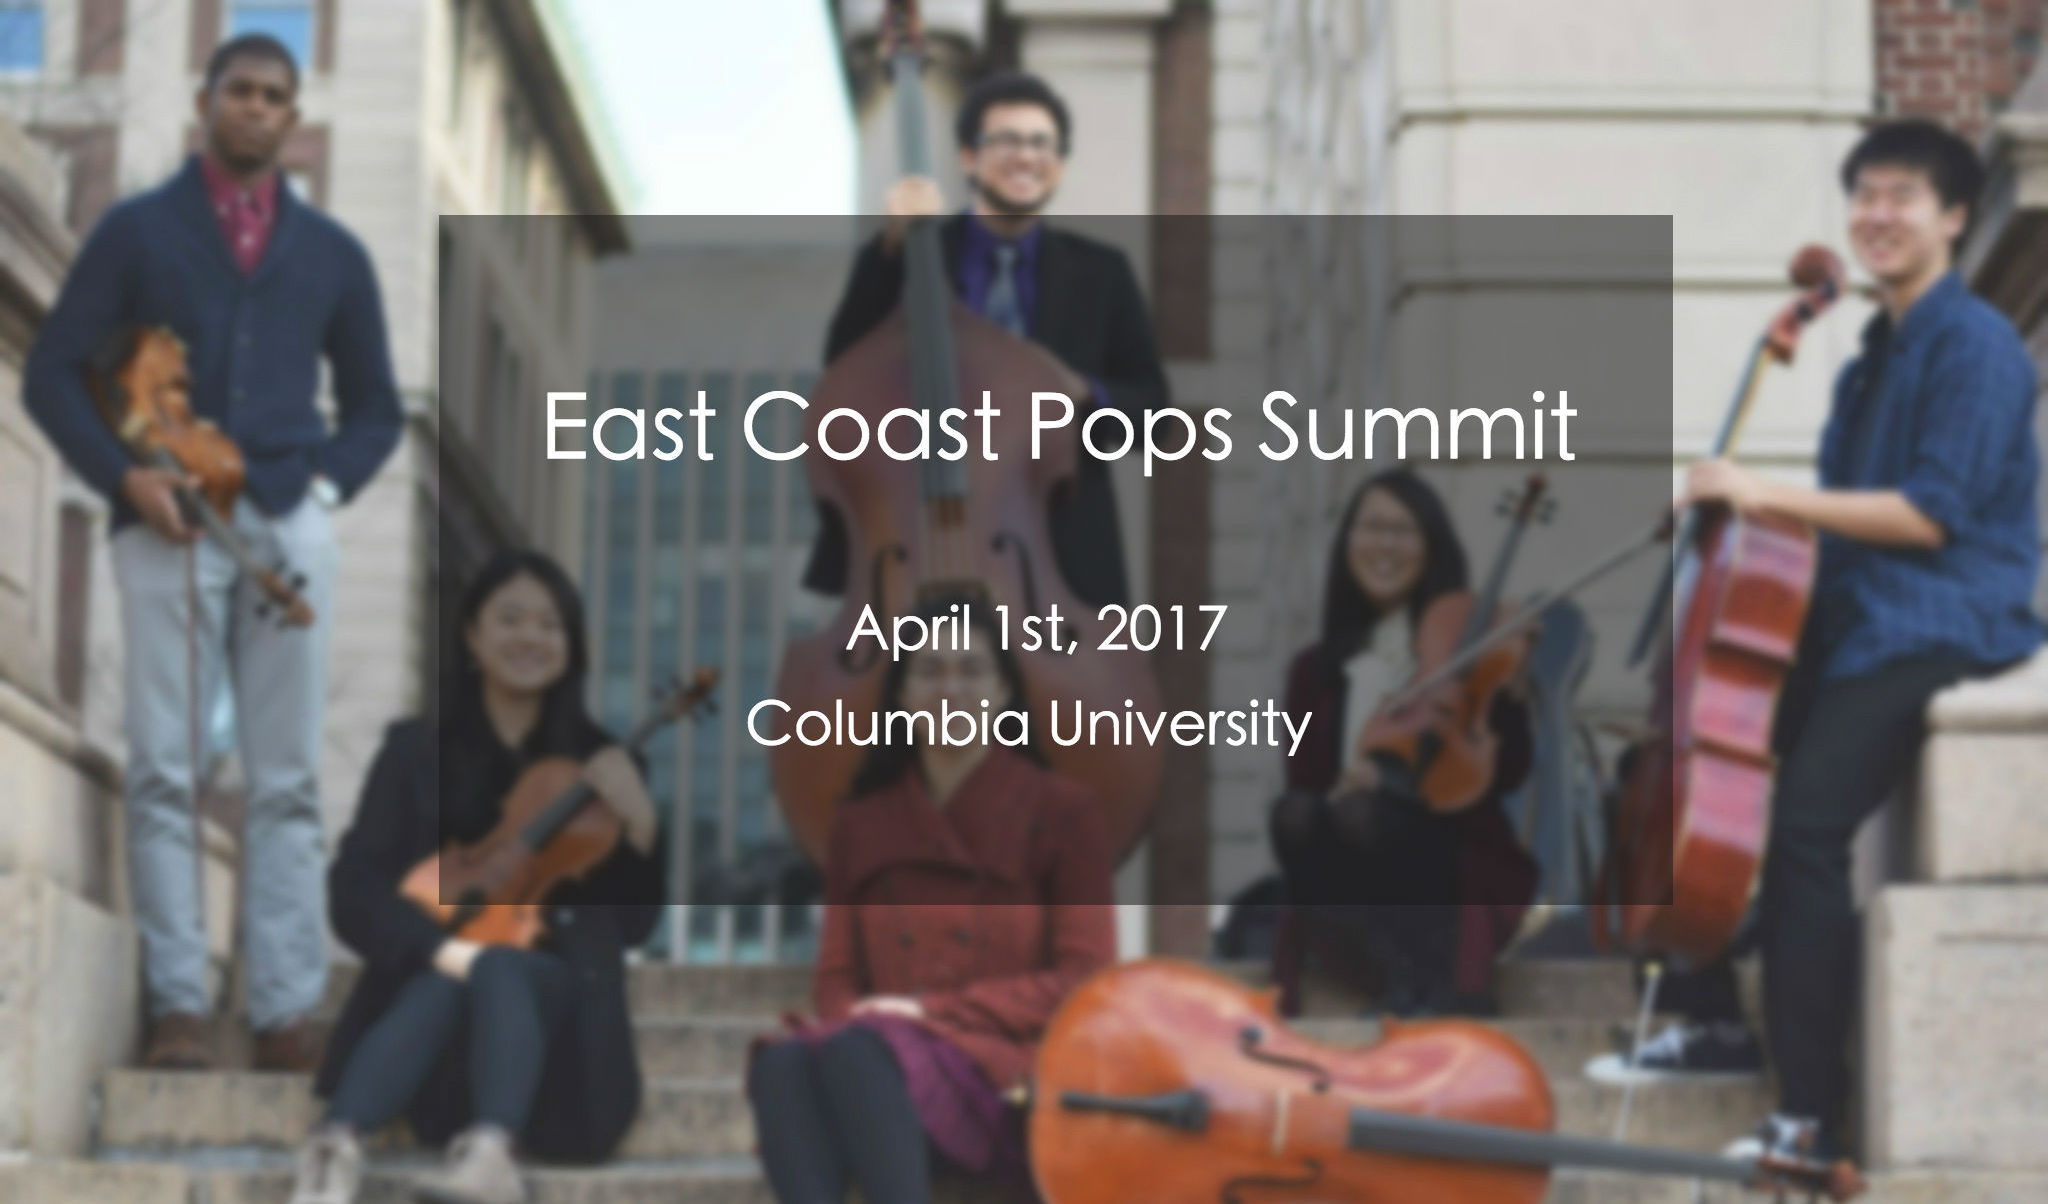
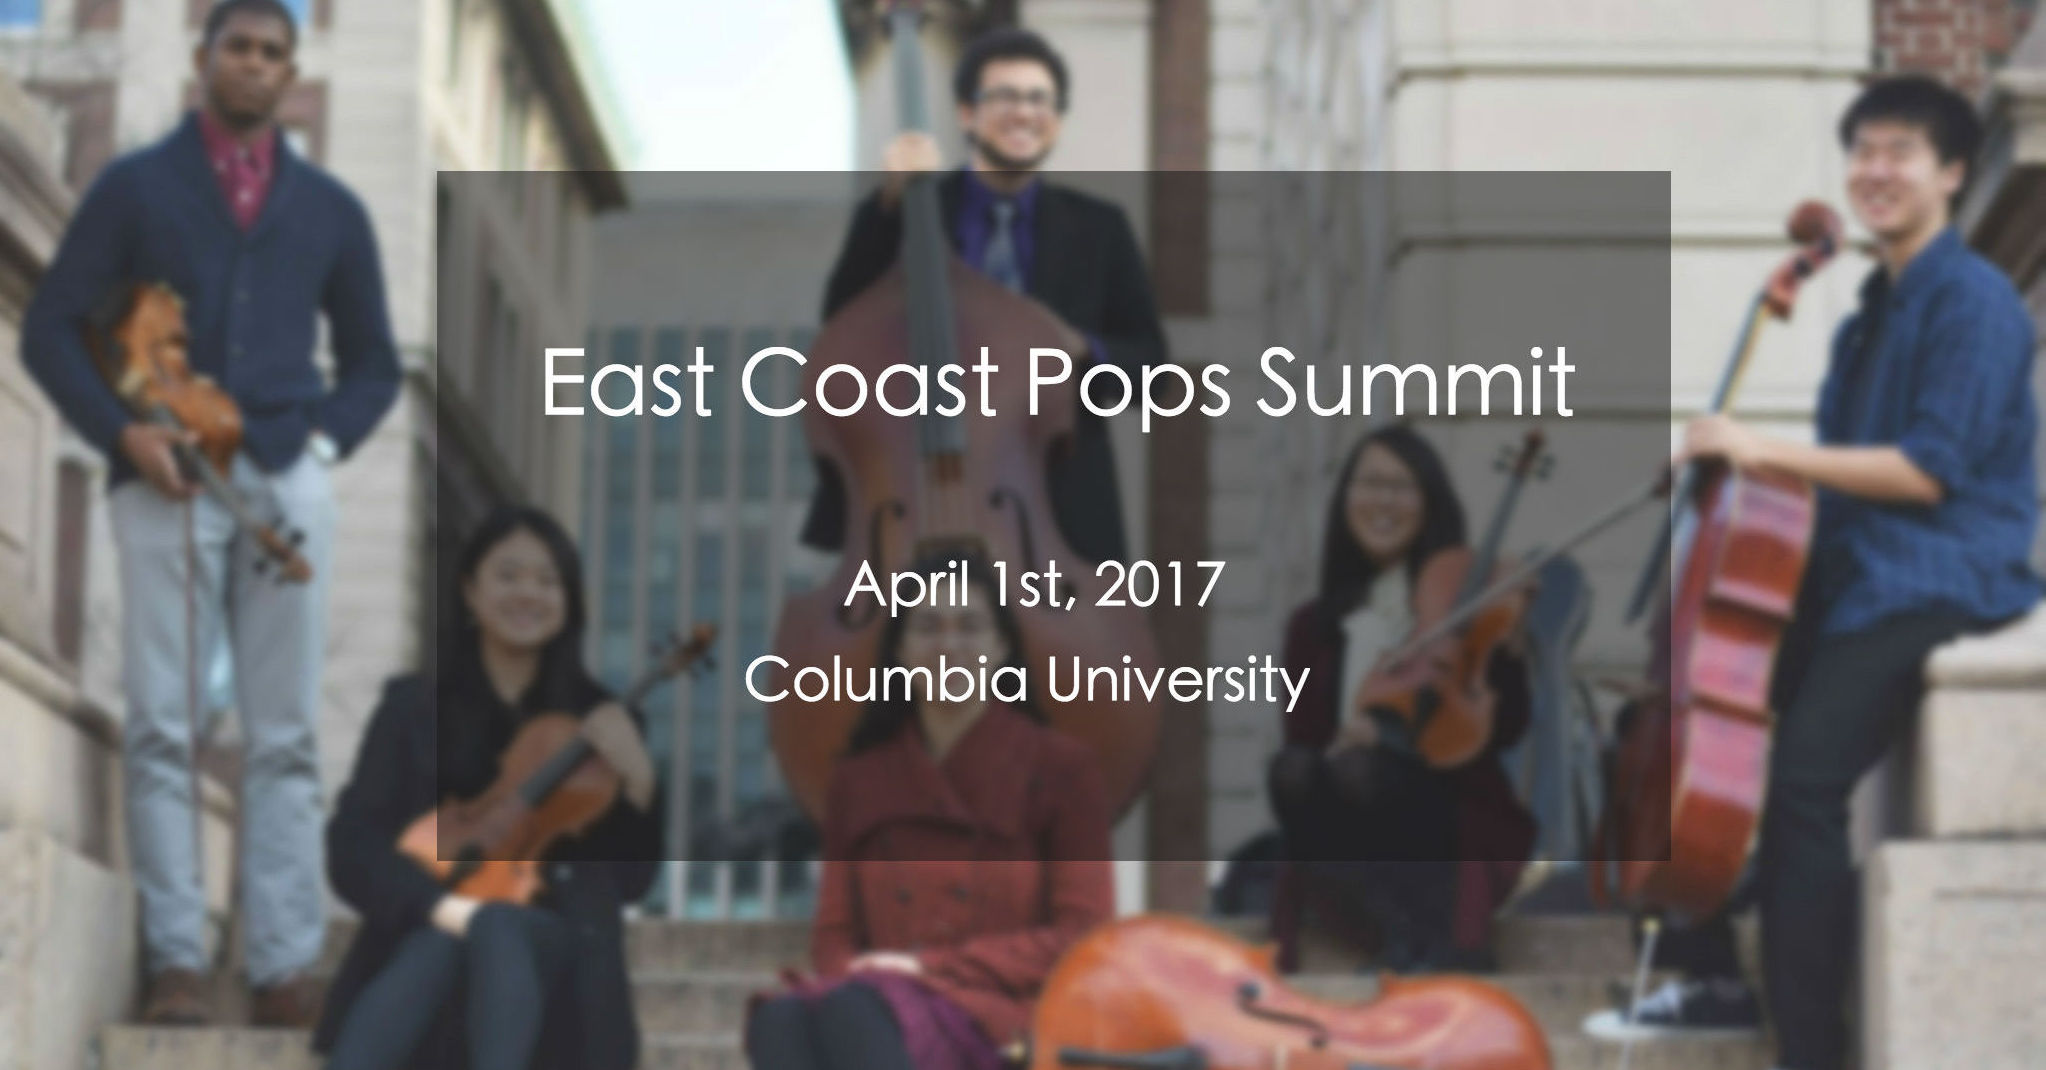
Fixes for mobile

diff --git a/index.html b/index.html
@@ -22,17 +22,18 @@
         </div>
       </div>
 
-      <div class="top-section">
+      <div class="row expanded">
+        <img class="cover-photo" src="img/pops_summit_cover2.jpg"></img>
       </div>
 
       <div class="section">
         <a name="about"></a>
         <div class="row">
-          <div class="small-8 small-centered columns">
+          <div class="small-12 medium-8 small-centered columns">
             <div class="section-title">About</div>
             <hr>
             <div class="description">
-              Join us for day-long celebration of instrumental pop music. On April 1st, 2017, musicians from pop groups all over the east coast will gather in New York to collaborate on chamber and orchestra covers of pop, video game, and film music.
+              Join us for a day-long celebration of instrumental pop music. On April 1st, 2017, musicians from pop groups all over the east coast will gather in New York to collaborate on chamber and orchestra covers of pop, video game, and film music.
             </div>
           </div>
         </div>
@@ -43,7 +44,9 @@
       <div class="section">
         <a name="participants"></a>
         <div class="row">
-          <div class="small-8 small-centered columns">
+<!--           <div class="small-8 small-centered columns">
+ -->            
+          <div class="small-12 medium-8 small-centered columns">
             <div class="section-title">Participants</div>
             <hr>
             <div class="row" style="padding-bottom:20px">
@@ -60,7 +63,7 @@
                 <div class="school-name">Davenport Pops</div>
               </div>
               <div class="small-8 columns end">
-                  <div class="description"> The Davenport Pops Orchestra- affectionately known as "DPops"- is Yale's premier pops orchestra. Entirely student-run, the Davenport Pops Orchestra engages students not only as orchestra players but also as conductors, administrators, and much more. DPops pursues a diverse repertoire including film scores, musical medleys, television themes, student compositions, rocks songs, hip-hop charts, and much much more! </div>
+                  <div class="description"> The Davenport Pops Orchestra- affectionately known as "DPops"- is Yale's premier pops orchestra. Entirely student-run, the Davenport Pops Orchestra engages students not only as orchestra players but also as conductors, administrators, and much more. DPops pursues a diverse repertoire including film scores, musical medleys, television themes, student compositions, rock songs, hip-hop charts, and much much more! </div>
               </div>
             </div>
             <div class="row">
@@ -68,7 +71,7 @@
                 <div class="school-name">Columbia Pops</div>
               </div>
               <div class="small-8 columns end">
-                  <div class="description"> Columbia Pops is Columbia University's premier pops orchestra dedicated to the arrangement and performance of cinematic, animated, and video game music. Entirely student-run, the goal is to engage students not only as orchestra players but also as conductors, arrangers, administrators, and much more. </div>
+                  <div class="description"> Columbia Pops is the only student-run orchestra at Columbia University dedicated to the arrangement and performance of film, video game, and popular music. Since our founding in 2014, we have held a series of well-received concerts each semester, and engaged the Columbia community through on-campus gigs, as well as events such as live jukeboxes or music hackathons. </div>
               </div>
             </div>
           </div>
@@ -78,18 +81,18 @@
       <div class="section">
         <a name="schedule"></a>
         <div class="row">
-          <div class="small-8 small-centered columns">
+          <div class="small-12 medium-8 small-centered columns">
             <div class="section-title">Schedule</div>
             <hr>
           </div>
         </div>
 
         <div class="row" style="padding-bottom:20px">
-          <div class="small-3 small-offset-2 columns">
+          <div class="small-5 medium-3 medium-offset-2 columns">
             <div class="time">9:00AM</div>
             <div class="location">John Jay Lounge</div>
           </div>
-          <div class="small-5 columns end">
+          <div class="small-7 medium-5 columns end">
             <div class="event">
               Breakfast
             </div>       
@@ -97,11 +100,11 @@
         </div>
 
          <div class="row" style="padding-bottom:20px">
-          <div class="small-3 small-offset-2 columns">
+          <div class="small-5 medium-3 medium-offset-2 columns">
             <div class="time">10:00AM</div>
             <div class="location">John Jay Lounge, Lerner 573, Lerner 572, Lerner 467A , Wallach Lounge</div>
           </div>
-          <div class="small-5 columns end">
+          <div class="small-7 medium-5 columns end">
             <div class="event">
               Chamber Rehearsals
             </div>
@@ -114,11 +117,11 @@
         </div>
 
         <div class="row" style="padding-bottom:20px">
-          <div class="small-3 small-offset-2 columns">
+          <div class="small-5 medium-3 medium-offset-2 columns">
             <div class="time">12:00PM</div>
             <div class="location">Practice rooms: Lerner 467A, Lerner 573, Lerner 572, Wallach Lounge</div>
           </div>
-          <div class="small-5 columns end">
+          <div class="small-7 medium-5 columns end">
             <div class="event">
               Lunch in the City
             </div>
@@ -130,11 +133,11 @@
         </div>
 
         <div class="row" style="padding-bottom:20px">
-          <div class="small-3 small-offset-2 columns">
+          <div class="small-5 medium-3 medium-offset-2 columns">
             <div class="time">3:00PM</div>
             <div class="location">Wallach Lounge</div>
           </div>
-          <div class="small-5 columns end">
+          <div class="small-7 medium-5 columns end">
             <div class="event">
               Masterclass
             </div>
@@ -145,11 +148,11 @@
         </div>
 
         <div class="row" style="padding-bottom:20px">
-          <div class="small-3 small-offset-2 columns">
+          <div class="small-5 medium-3 medium-offset-2 columns">
             <div class="time">5:00PM</div>
             <div class="location">Lerner 555</div>
           </div>
-          <div class="small-5 columns end">
+          <div class="small-7 medium-5 columns end">
              <div class="event">
               Joint Rehearsal
             </div>
@@ -160,11 +163,11 @@
         </div>
 
         <div class="row" style="padding-bottom:20px">
-          <div class="small-3 small-offset-2 columns">
+          <div class="small-5 medium-3 medium-offset-2 columns">
             <div class="time">7:00PM</div>
             <div class="location">Wallach Lounge</div>
           </div>
-          <div class="small-5 columns end">
+          <div class="small-7 medium-5 columns end">
             <div class="event">
               Dinner
             </div>         
@@ -172,11 +175,11 @@
         </div>
 
         <div class="row">
-          <div class="small-3 small-offset-2 columns">
+          <div class="small-5 medium-3 medium-offset-2 columns">
             <div class="time">8:00PM</div>
             <div class="location">Wien Lounge</div>
           </div>
-          <div class="small-5 columns end">
+          <div class="small-7 medium-5 columns end">
             <div class="event">
               Concert
             </div>        
@@ -188,11 +191,11 @@
       <div class="section" style="padding-bottom:40px">
         <a name="contact"></a>
         <div class="row">
-          <div class="small-8 small-centered columns">
+          <div class="small-12 medium-8 small-centered columns">
             <div class="section-title">Interested in Participating?</div>
             <hr>
             <div class="description">
-              Are you part of a collegiate pop orchestra or chamber group? Are you intrested in participating in the East Coast Pops Summit? We'd love to have you! Please reach out to the Columbia Pops board at popsboard@columbia.edu for more information.
+              Are you part of a collegiate pop orchestra or chamber group? Are you interested in participating in the East Coast Pops Summit? We'd love to have you! Please reach out to the Columbia Pops board at popsboard@columbia.edu for more information.
             </div>
           </div>
         </div>

diff --git a/css/app.css b/css/app.css
@@ -1,18 +1,12 @@
 @import url(https://fonts.googleapis.com/css?family=Open+Sans);
 
-.wrapper {
-	/*background: #466368;*/
-  	/*background: linear-gradient(to right bottom, #e6f3ff, #6cc3f9);*/
-  	background-color:#f2f2f2;
-  	height: cover;
+img {  
+	object-fit:cover;
 }
 
-.top-section {
-	width:100%;
-	height:650px;
-	background-image: url("../img/pops_summit_cover2.jpg");
-    background-size:cover;
-    background-position:center;
+.wrapper {
+  	background-color:#f2f2f2;
+  	height: cover;
 }
 
 .title {
@@ -27,10 +21,6 @@
 	text-align: center;
 	font-size: 40px;
 	color:#4d4d4d;
-}
-
-.section {
-	/*padding-bottom:60px;*/
 }
 
 .section-title {
@@ -48,7 +38,6 @@
 
 hr {
 	border-color: black;
-	/*color:#6c6e73;*/
 }
 
 .school-name {
